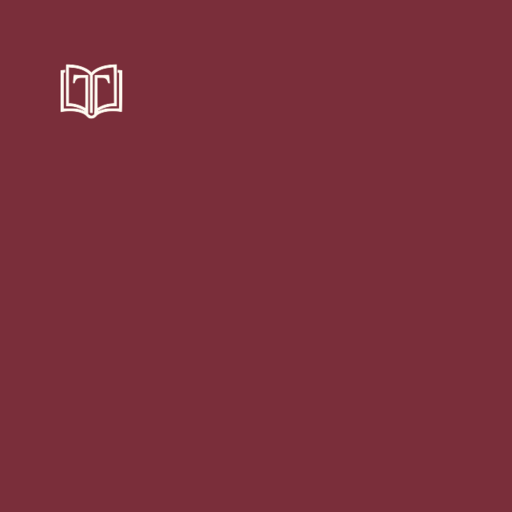
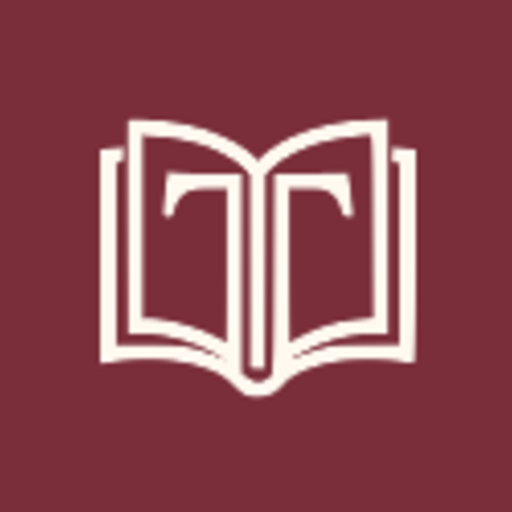
feat: integrate PWA support with manifest and service worker configuration

Changed region(s): [[0.1875, 0.2188, 0.8438, 0.7812], [0.0938, 0.125, 0.25, 0.25]]

diff --git a/vite.config.ts b/vite.config.ts
@@ -1,9 +1,52 @@
 import { defineConfig } from 'vite'
 import react from '@vitejs/plugin-react'
 import tailwindcss from '@tailwindcss/vite'
+import { VitePWA } from 'vite-plugin-pwa'
 
 // https://vite.dev/config/
 export default defineConfig({
   base: '/teleo/',
-  plugins: [react(), tailwindcss()],
+  plugins: [
+    react(),
+    tailwindcss(),
+    VitePWA({
+      registerType: 'autoUpdate',
+      includeAssets: ['favicon.svg', 'pwa-icons/apple-touch-icon.png'],
+      manifest: {
+        name: 'Teleo',
+        short_name: 'Teleo',
+        description: 'Tu diario de lectura',
+        lang: 'es',
+        start_url: '/teleo/',
+        scope: '/teleo/',
+        display: 'standalone',
+        orientation: 'portrait',
+        background_color: '#F8EFE1',
+        theme_color: '#7A2E3A',
+        icons: [
+          {
+            src: 'pwa-icons/pwa-192x192.png',
+            sizes: '192x192',
+            type: 'image/png',
+            purpose: 'any',
+          },
+          {
+            src: 'pwa-icons/pwa-512x512.png',
+            sizes: '512x512',
+            type: 'image/png',
+            purpose: 'any',
+          },
+          {
+            src: 'pwa-icons/pwa-maskable-512x512.png',
+            sizes: '512x512',
+            type: 'image/png',
+            purpose: 'maskable',
+          },
+        ],
+      },
+      workbox: {
+        globPatterns: ['**/*.{js,css,html,svg,png,ico,woff2}'],
+      },
+    }),
+  ],
 })

diff --git a/index.html b/index.html
@@ -3,8 +3,15 @@
   <head>
     <meta charset="UTF-8" />
     <link rel="icon" type="image/svg+xml" href="/favicon.svg" />
-    <meta name="viewport" content="width=device-width, initial-scale=1.0" />
+    <meta name="viewport" content="width=device-width, initial-scale=1.0, viewport-fit=cover" />
     <title>teleo</title>
+
+    <meta name="theme-color" content="#7A2E3A" />
+    <meta name="mobile-web-app-capable" content="yes" />
+    <meta name="apple-mobile-web-app-capable" content="yes" />
+    <meta name="apple-mobile-web-app-status-bar-style" content="black-translucent" />
+    <meta name="apple-mobile-web-app-title" content="Teleo" />
+    <link rel="apple-touch-icon" href="/pwa-icons/apple-touch-icon.png" />
 
     <link rel="preconnect" href="https://fonts.googleapis.com">
 <link rel="preconnect" href="https://fonts.gstatic.com" crossorigin>
